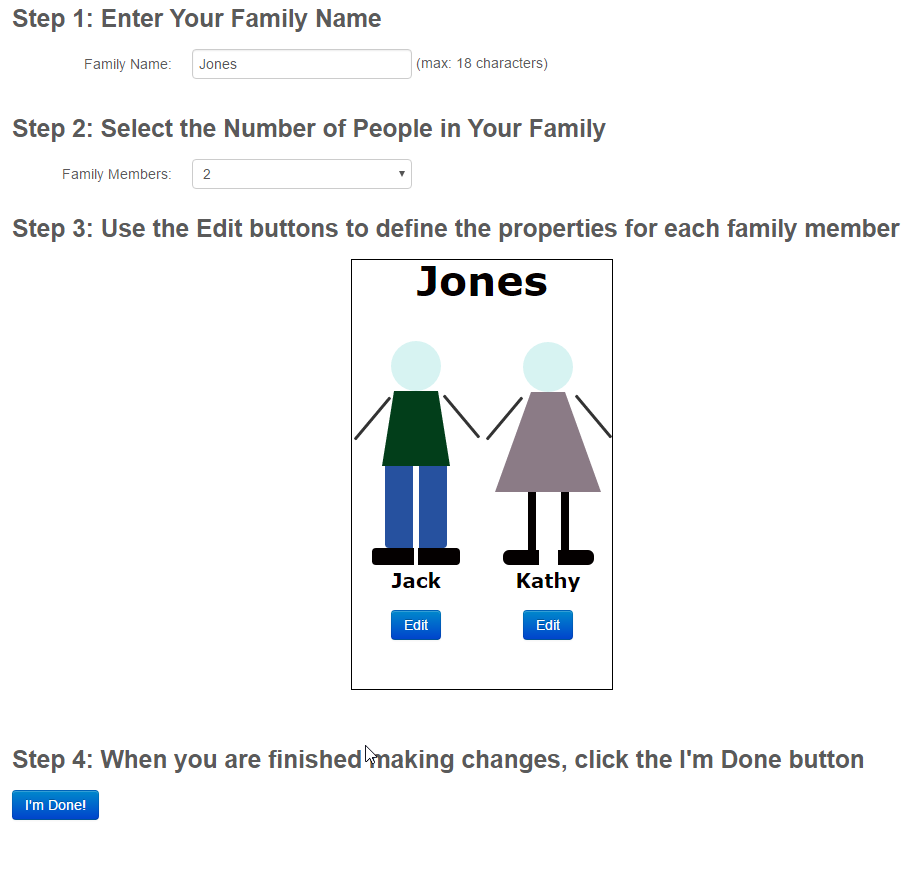
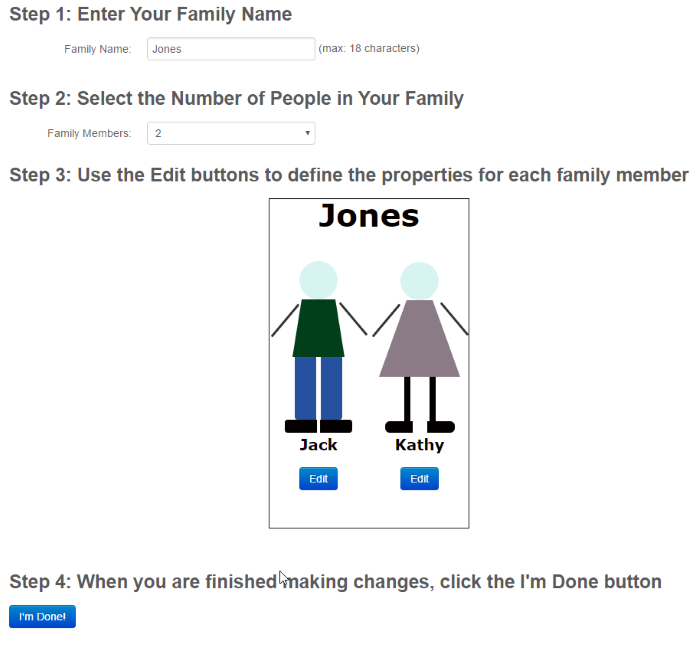
resize screenshot image

diff --git a/ReadMe.md b/ReadMe.md
@@ -22,7 +22,7 @@ This prototype was built using knockout.js.
 The prototype contains some basic filler pages such as *About* and *Main*, but the primary work exists with the *configure.html* page.  Before any styling could be applied to the page, the project was dropped by the client.
 
 ## Website Configuration Form Screenshot
-![Website Configuration Form Screenshot](GlassFamily/img/PrototypeConfigScreenshot.png =700x)
+![Website Configuration Form Screenshot](GlassFamily/img/PrototypeConfigScreenshot.png?raw=true "Website Configuration Form Screenshot")
 
 ## Website Sample Image
 ![Website Sample Image](GlassFamily/img/TheGradysSample.jpg?raw=true "Website Sample Image")
